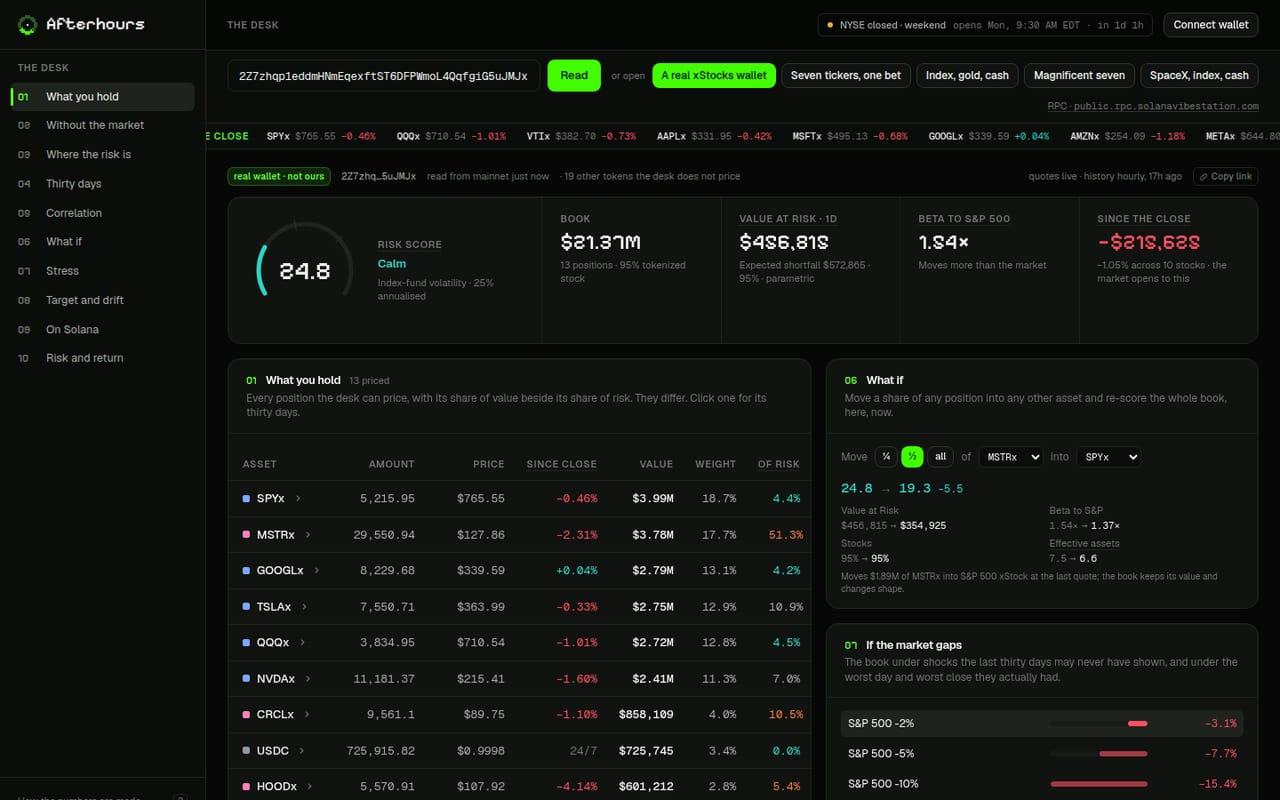
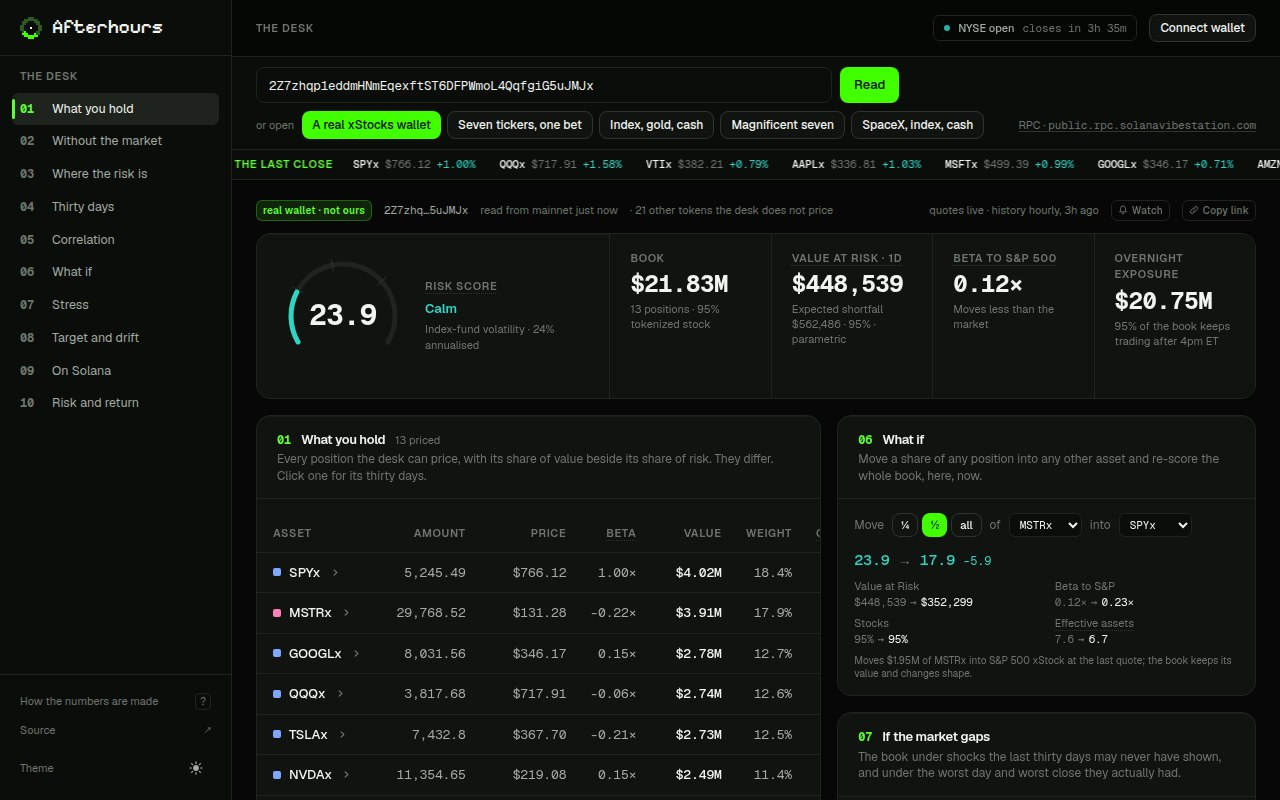
A figure you can read at a glance
The pixel face draws 9 and S, 3 and 8, almost the same, which was fine
for a headline but not for a risk score someone is trusting. Every
actual number on the desk, the score, the KPIs, the panel numbers, the
stat grid, now sets in bold mono instead; the pixel face stays where
it was always meant to be, on words. Regenerated the two desk
screenshots (landing card, README) so they show the same numbers.

diff --git a/app/app/page.tsx b/app/app/page.tsx
@@ -193,7 +193,7 @@ export default function Landing() {
         <div className="mt-8 grid gap-3 sm:grid-cols-2 lg:grid-cols-5">
           {PANELS.map((p) => (
             <Link key={p.id} href={`/dashboard/#${p.id}`} className="card group flex flex-col gap-2 p-4 transition-colors hover:bg-surface-hover">
-              <span className="display text-[18px]" style={{ color: "var(--brand)" }}>{p.number}</span>
+              <span className="figure text-[18px]" style={{ color: "var(--brand)" }}>{p.number}</span>
               <span className="text-[13px] font-semibold text-text">{p.title}</span>
               <span className="text-[12px] leading-snug text-tertiary">{p.line}</span>
             </Link>
@@ -212,7 +212,7 @@ export default function Landing() {
         <ol className="mt-8 grid gap-3 md:grid-cols-3">
           {STEPS.map((s) => (
             <li key={s.n} className="card p-5">
-              <span className="display text-[28px] leading-none" style={{ color: "var(--brand)" }}>{s.n}</span>
+              <span className="figure text-[28px] leading-none" style={{ color: "var(--brand)" }}>{s.n}</span>
               <p className="mt-3 text-[14px] font-semibold text-text">{s.title}</p>
               <p className="mt-1.5 text-[12.5px] leading-relaxed text-tertiary">{s.body}</p>
             </li>
@@ -261,7 +261,7 @@ export default function Landing() {
             ["0", "servers"],
           ].map(([n, l]) => (
             <div key={l} className="bg-surface px-5 py-5">
-              <dt className="display text-[32px] leading-none text-text">{n}</dt>
+              <dt className="figure text-[32px] leading-none text-text">{n}</dt>
               <dd className="mt-1.5 text-[11.5px] text-tertiary">{l}</dd>
             </div>
           ))}

diff --git a/app/components/SectionNav.tsx b/app/components/SectionNav.tsx
@@ -77,7 +77,7 @@ export function SectionNav({ sections }: { sections: Section[] }) {
               className={`flex shrink-0 items-baseline gap-1.5 whitespace-nowrap rounded-md px-2 py-1 text-[11px] transition-colors ${on ? "bg-surface-active text-text" : "text-tertiary hover:bg-surface-hover hover:text-text"}`}
               aria-current={on ? "location" : undefined}
             >
-              <span className="display text-[11px]" style={{ color: on ? "var(--brand)" : undefined }}>{s.number}</span>
+              <span className="figure text-[11px]" style={{ color: on ? "var(--brand)" : undefined }}>{s.number}</span>
               {s.title}
             </a>
           );
@@ -122,7 +122,7 @@ export function Rail({
               aria-current={on ? "location" : undefined}
             >
               {on && <span className="absolute left-0 top-1.5 bottom-1.5 w-[3px] rounded-full bg-brand" aria-hidden="true" />}
-              <span className="display w-[22px] shrink-0 text-[12px]" style={{ color: on ? "var(--brand)" : "var(--text-tertiary)" }}>{s.number}</span>
+              <span className="figure w-[22px] shrink-0 text-[12px]" style={{ color: on ? "var(--brand)" : "var(--text-tertiary)" }}>{s.number}</span>
               <span className="truncate">{s.title}</span>
             </a>
           );

diff --git a/app/components/Summary.tsx b/app/components/Summary.tsx
@@ -73,7 +73,7 @@ export function Summary({ a }: { a: Analysis }) {
           {metrics.map((m) => (
             <div key={m.label} className="min-w-0 bg-surface px-5 py-4">
               <dt className="label">{m.term ? <Term term={m.term}>{m.label}</Term> : m.label}</dt>
-              <dd className="display mt-1.5 truncate text-[22px] leading-none text-text xl:text-[24px]" style={m.color ? { color: m.color } : undefined}>{m.value}</dd>
+              <dd className="figure mt-1.5 truncate text-[22px] leading-none text-text xl:text-[24px]" style={m.color ? { color: m.color } : undefined}>{m.value}</dd>
               <p className="mt-1.5 text-[11px] leading-snug text-tertiary">{m.detail}</p>
             </div>
           ))}

diff --git a/app/app/globals.css b/app/app/globals.css
@@ -147,6 +147,19 @@ body {
   letter-spacing: -0.01em;
 }
 
+/* A number meant to be read at a glance: the risk score, a KPI tile, a
+   stat. The pixel face draws 9 and S, or 3 and 8, almost the same, which
+   is fine for a word but not for a figure someone is trusting; this is
+   the same mono face as .numeric, bolder, for anywhere a digit is the
+   whole point. */
+@utility figure {
+  font-family: var(--font-mono);
+  font-variant-numeric: tabular-nums;
+  font-feature-settings: "tnum";
+  letter-spacing: -0.02em;
+  font-weight: 700;
+}
+
 /* Small-caps section label. */
 @utility label {
   font-size: 11px;

diff --git a/app/components/ui.tsx b/app/components/ui.tsx
@@ -33,7 +33,7 @@ export function PanelHeader({
     <div className="border-b border-border px-5 py-3.5">
       <div className="flex items-center justify-between gap-3">
         <div className="flex min-w-0 items-baseline gap-2.5">
-          {number && <span className="display text-[12px] text-brand">{number}</span>}
+          {number && <span className="figure text-[12px] text-brand">{number}</span>}
           <h2 className="shrink-0 text-[13px] font-semibold tracking-tight text-text">{title}</h2>
           {meta && <span className="truncate text-[11px] text-tertiary">{meta}</span>}
         </div>

diff --git a/app/components/RiskDial.tsx b/app/components/RiskDial.tsx
@@ -94,7 +94,7 @@ export function RiskDial({
         {/* Typography scales with the dial so the reading never crowds the
             arc at smaller sizes. */}
         <span
-          className="display leading-none text-text"
+          className="figure leading-none text-text"
           style={{ fontSize: Math.round(size * 0.235) }}
         >
           {value.toFixed(1)}
